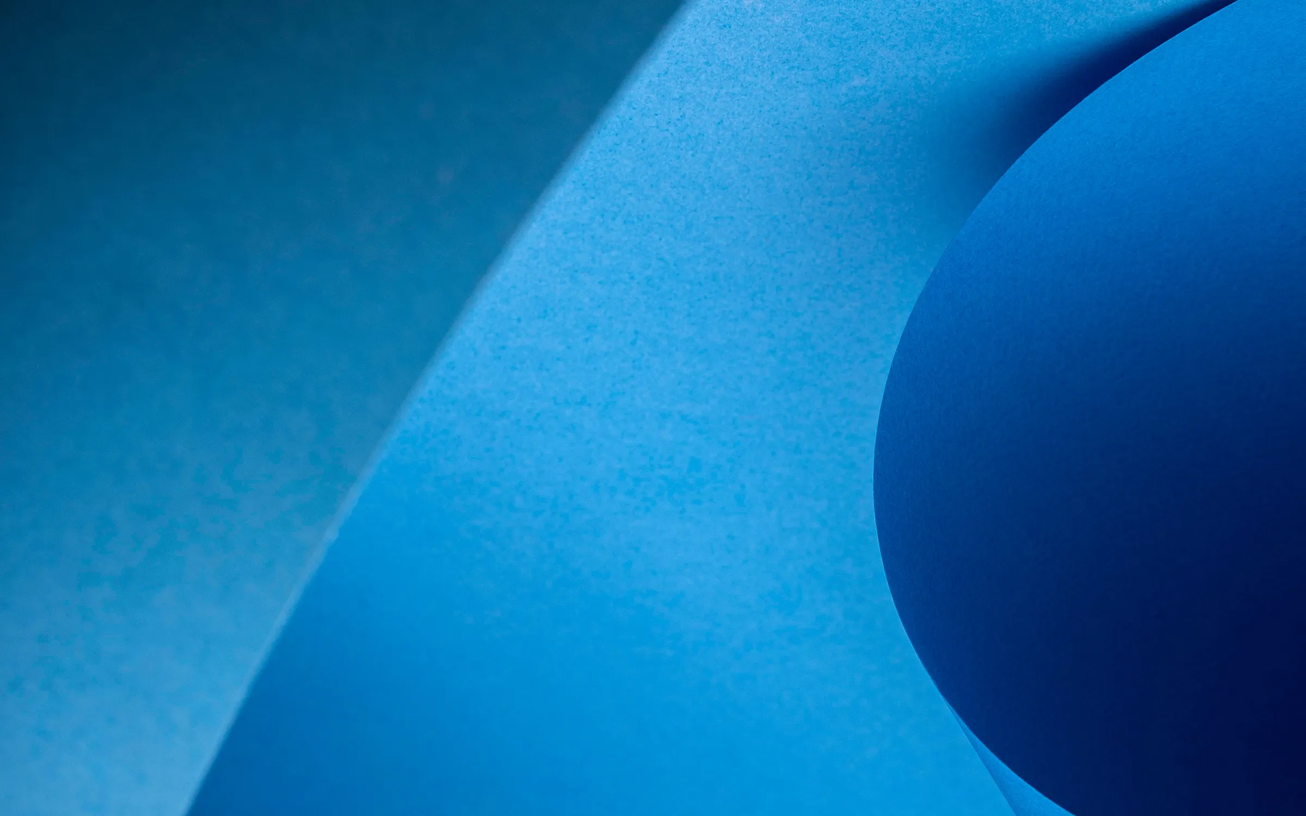
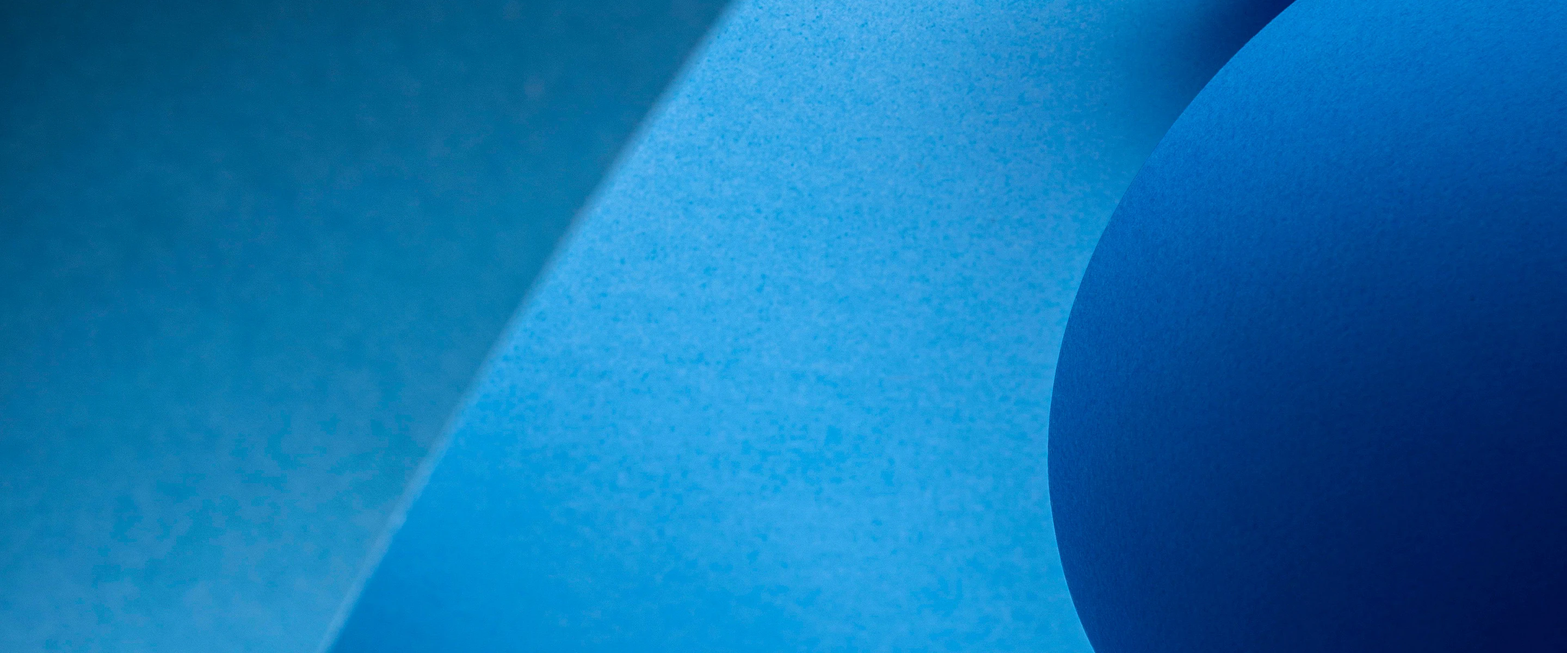
Sharper dashboard header image
Re-cropped from the full-resolution photo at 2880px and WebP quality 90, and served without Next's image optimiser, whose second compression made the smooth gradients blocky.

diff --git a/frontend/app/(workspace)/page.tsx b/frontend/app/(workspace)/page.tsx
@@ -30,8 +30,9 @@ export default function PriorityInboxPage() {
             alt=""
             fill
             priority
-            sizes="(min-width: 1200px) 1160px, 100vw"
-            className="object-cover object-[50%_40%]"
+            // Served as-is: re-compressing smooth gradients makes them blocky.
+            unoptimized
+            className="object-cover object-center"
           />
           <div className="absolute inset-0 bg-gradient-to-b from-canvas/0 via-canvas/55 via-55% to-canvas" />
         </div>
